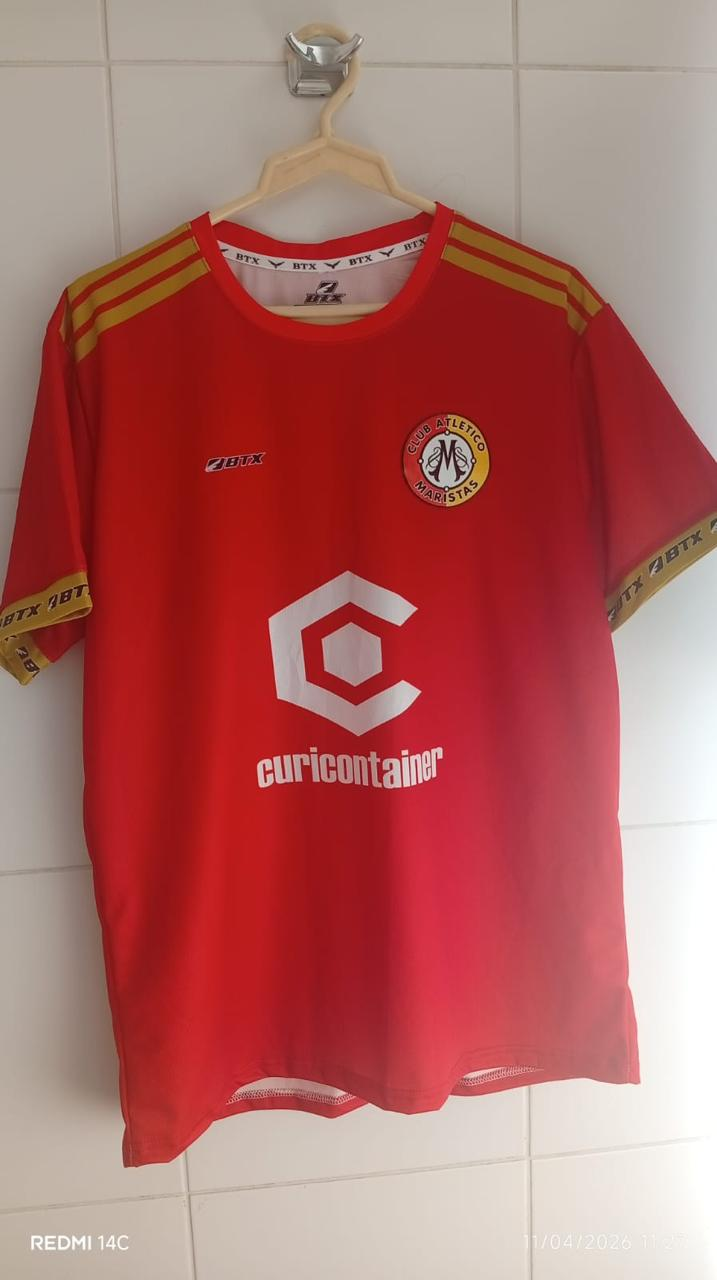
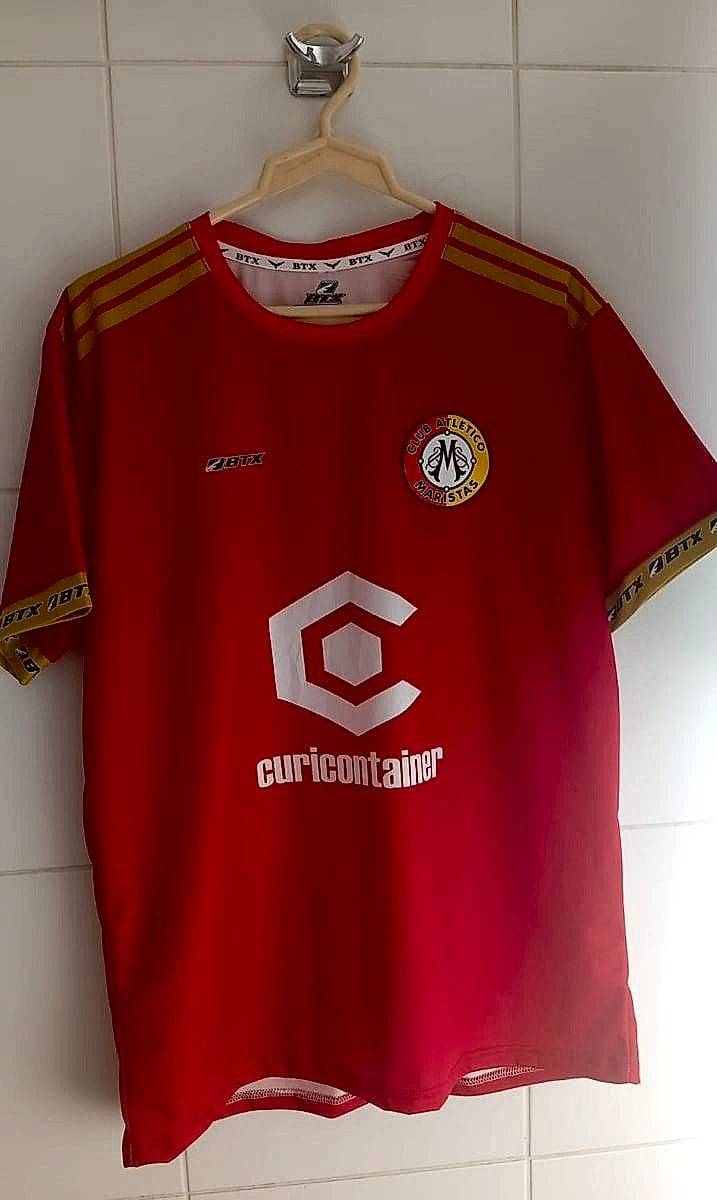
chore: mejora la foto de la camiseta (recorte de marca de fecha, contraste, nitidez)

diff --git a/index.html b/index.html
@@ -751,7 +751,7 @@
       <div class="piel-showcase">
         <div class="piel-img-wrap">
           <span class="piel-badge">2026</span>
-          <img src="fotos/camiseta-2026.jpg" alt="Nueva camiseta oficial del Club Atlético Marista 2026" class="piel-img"
+          <img src="fotos/camiseta-2026.jpg?v=2" alt="Nueva camiseta oficial del Club Atlético Marista 2026" class="piel-img"
                onerror="this.style.display='none'; this.parentElement.classList.add('no-img');" />
         </div>
         <div class="piel-info">
